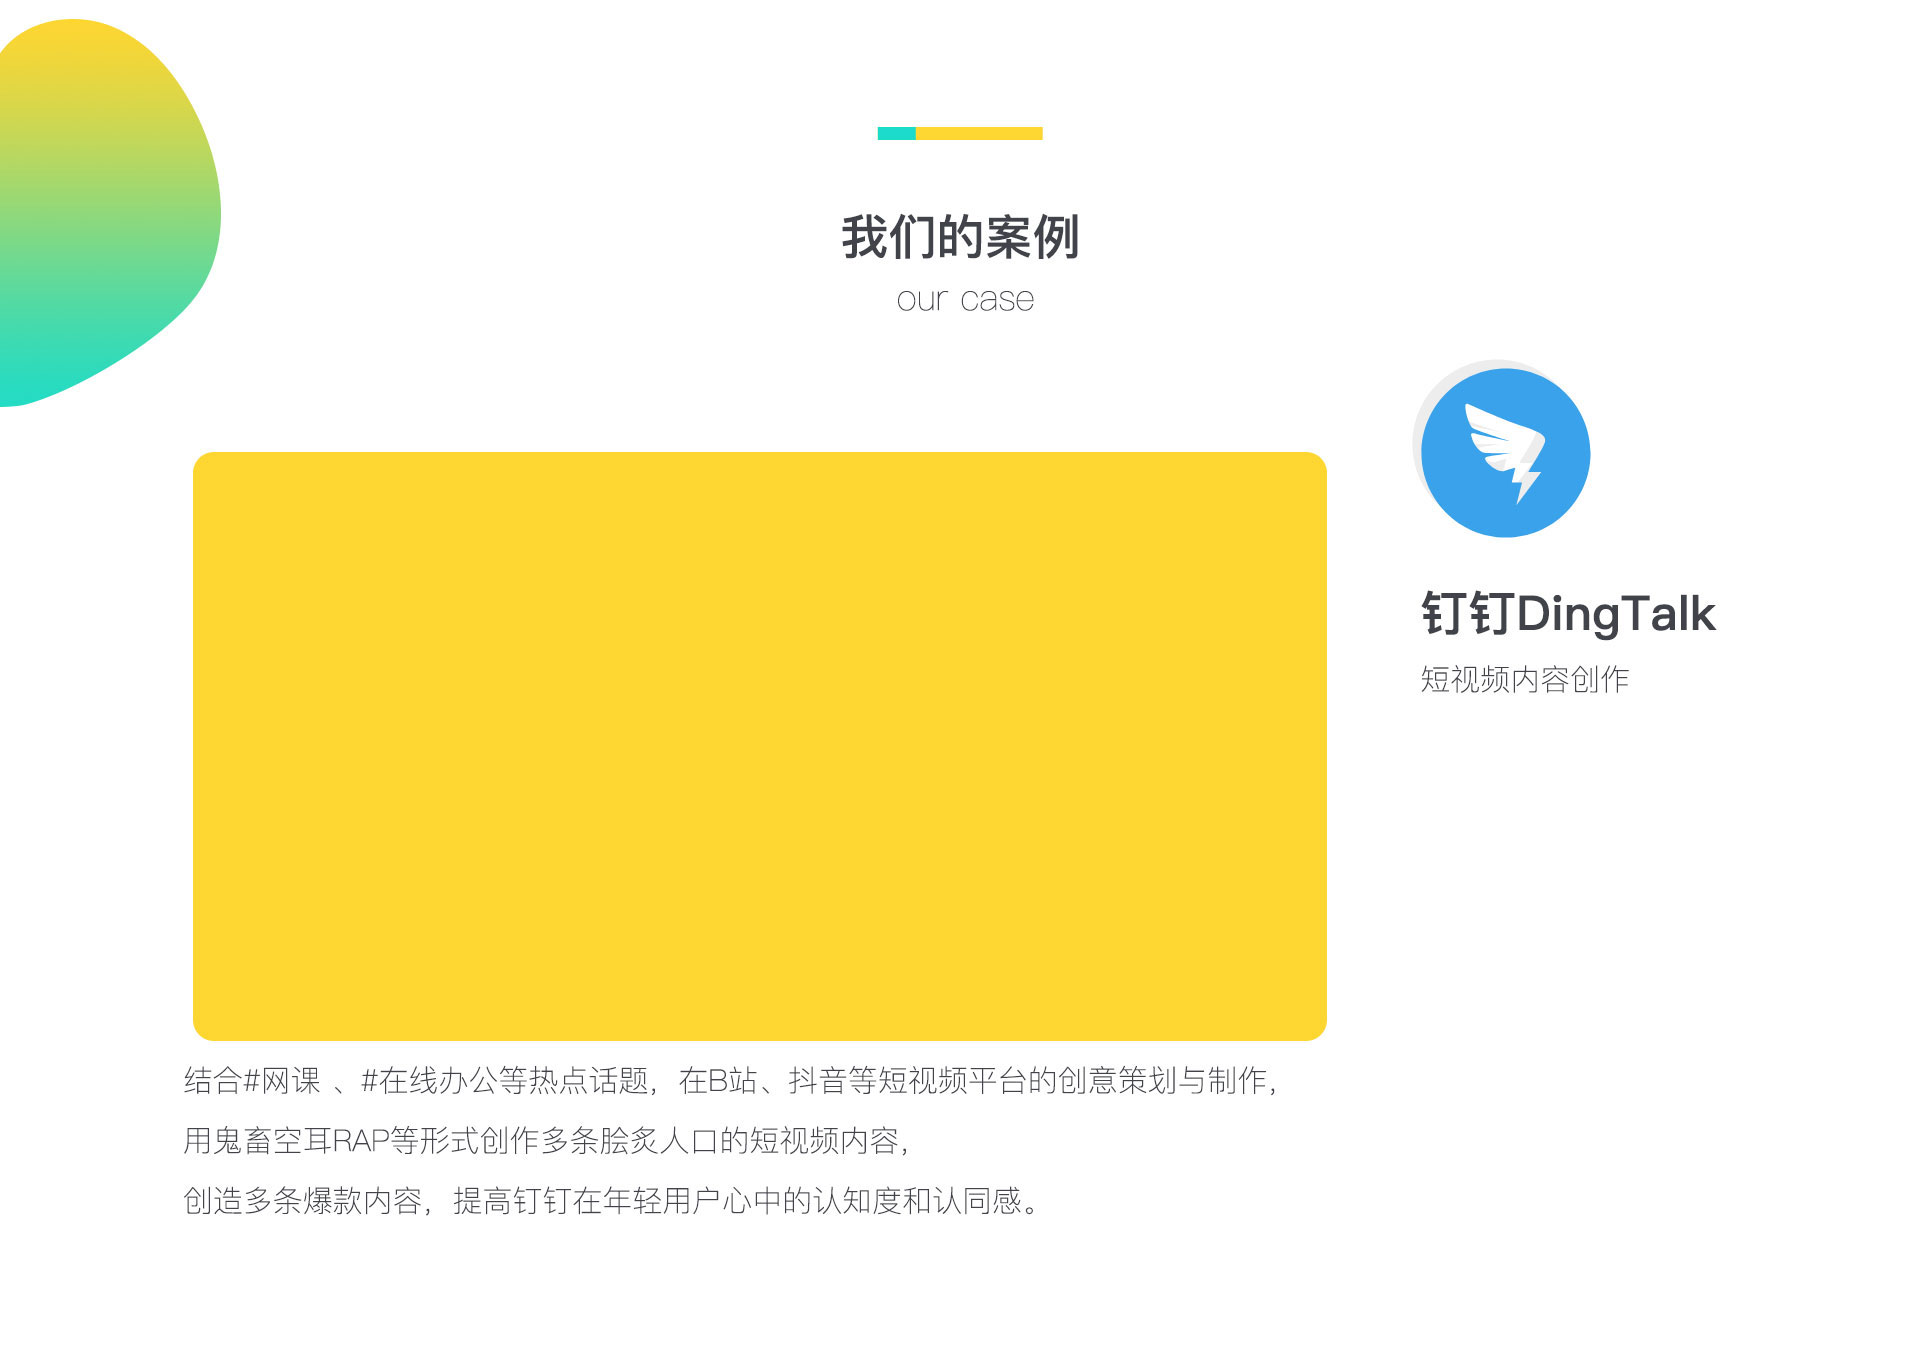
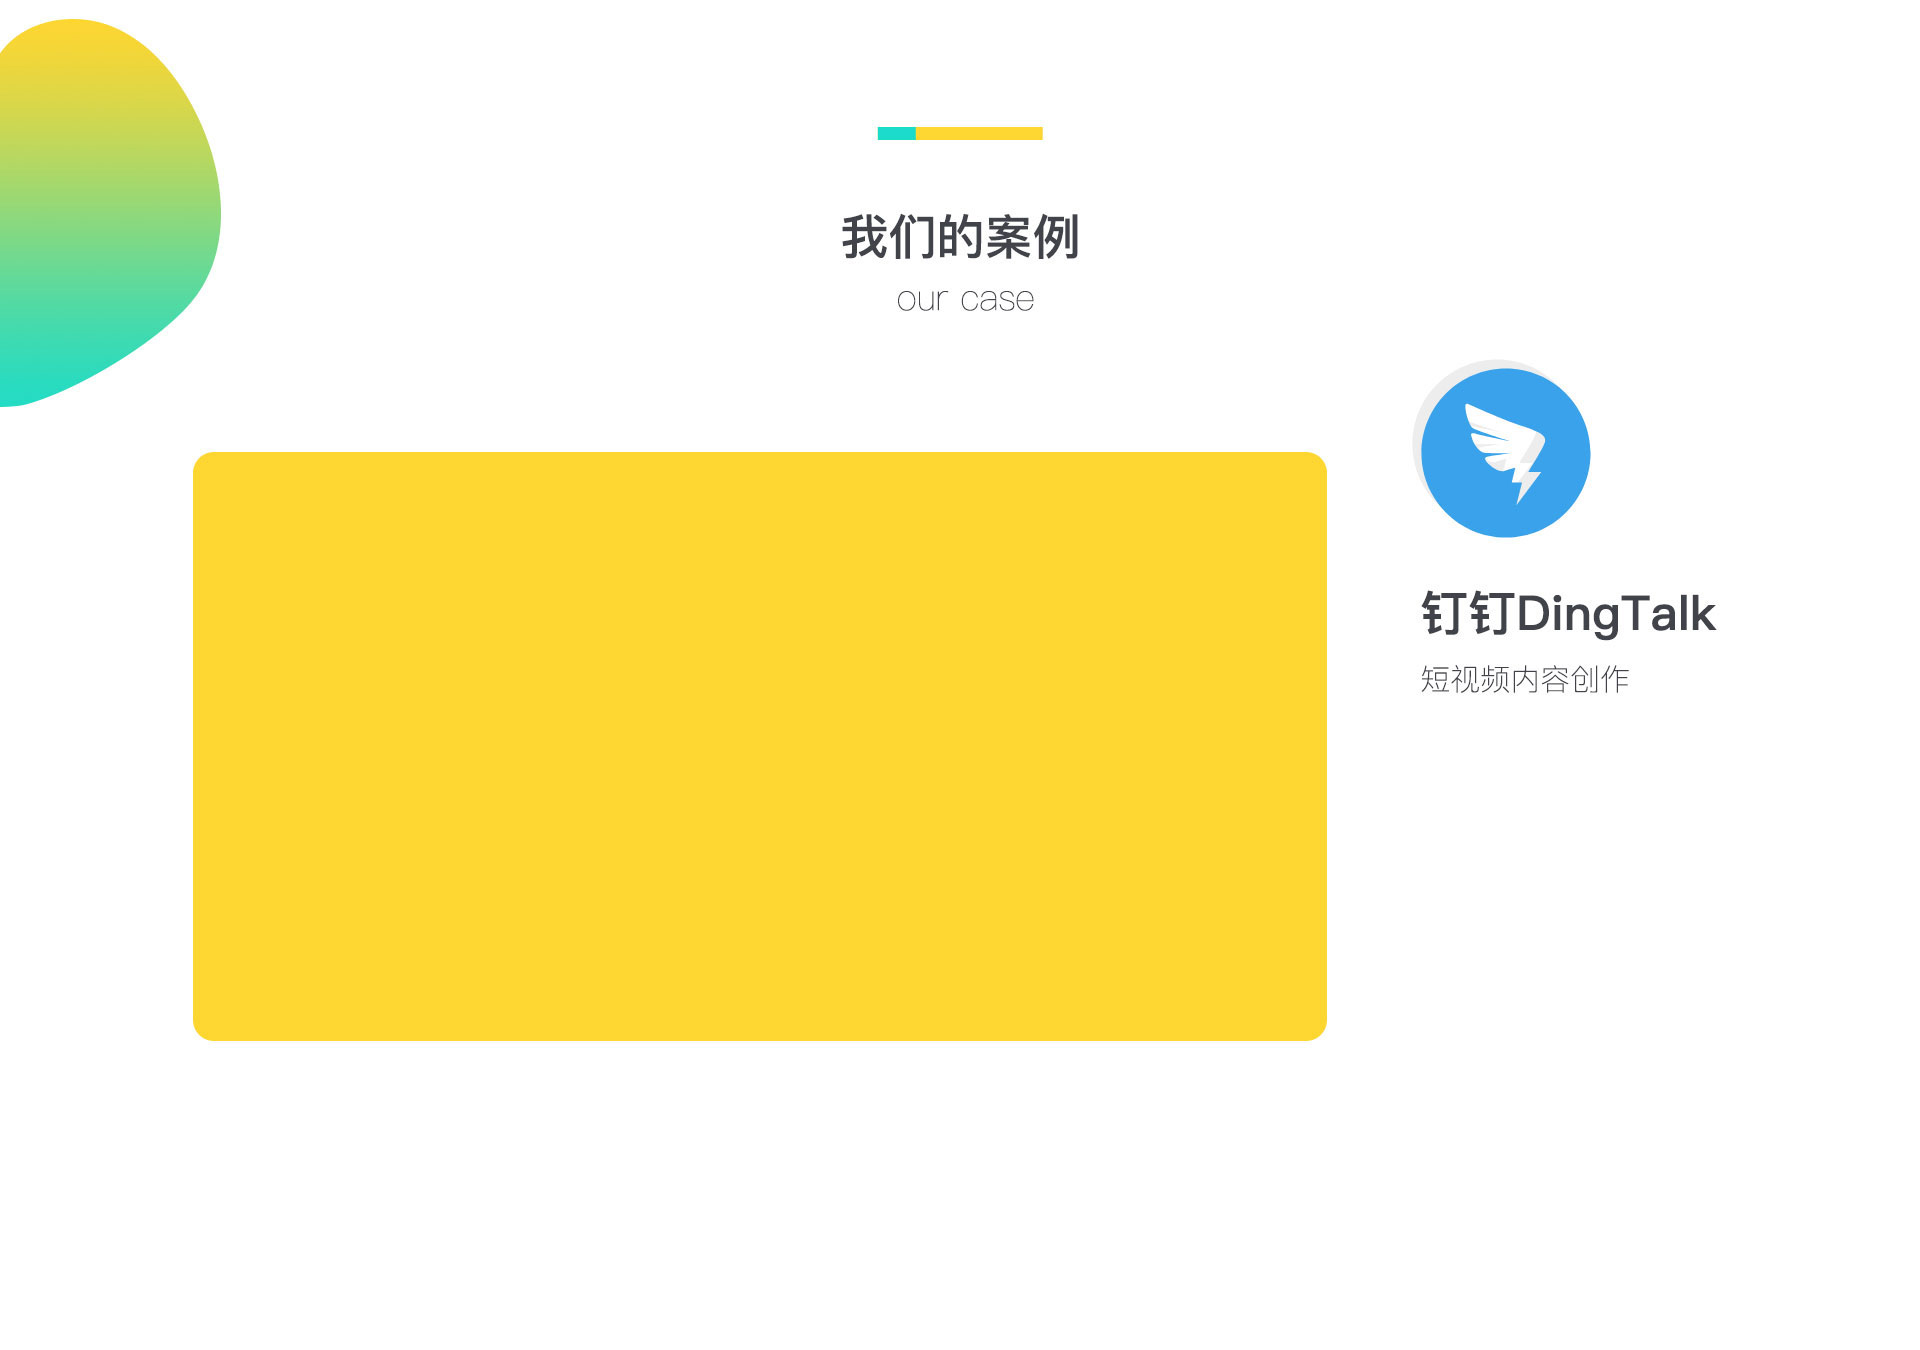
fff

Changed region(s): [[0.0938, 0.84, 0.5312, 0.9022], [0.1875, 0.7778, 0.6562, 0.8089], [0.0938, 0.7778, 0.1562, 0.8089]]

diff --git a/index.html b/index.html
@@ -8,16 +8,77 @@
     <link rel="stylesheet" href="./css/default.css">
     <link rel="stylesheet" href="./css/home.css">
     <style>
+         @media (min-width: 767px) and (max-width: 1600px) {
+            #ABOUT .aboutText{
+                -webkit-transform-origin-x: 0;
+                -webkit-transform-origin-y: 0;
+                -webkit-transform: scale(.8);
+            }
+            #ABOUT .aboutText p{
+                margin-bottom: 5%;
+            }
+            .case_01Text, .case_02Text ,.HiText p,.case_03Text,.case_03_2Text,.MctText{
+                -webkit-transform-origin-x: 0;
+                -webkit-transform-origin-y: 0;
+                -webkit-transform: scale(.8);
+            }
+            .case_04 p{
+                -webkit-transform: scale(.8);
+                display: flex;
+                justify-content: center;
+            }
+        }
        @media (min-width: 480px) and (max-width: 767px) {
-        .nav .nav_l{
-                display: none;
+            .nav .nav_l{
+                    display: none;
+                }
+            #ABOUT .aboutText{
+                -webkit-transform-origin-x: 0;
+                -webkit-transform-origin-y: 0;
+                -webkit-transform: scale(.5);
+                font-size: 9px !important;
+            }
+            .case_01Text, .case_02Text ,.HiText p,.case_03Text,.case_03_2Text,.MctText{
+                -webkit-transform-origin-x: 0;
+                -webkit-transform-origin-y: 0;
+                -webkit-transform: scale(.5);
+            }
+            .case_04 p{
+                -webkit-transform: scale(.5);
+                display: flex;
+                justify-content: center;
+                margin-top: 0;
             }
         }
         @media (max-width: 479px) {
             .nav .nav_l{
                 display: none;
             }
+            #ABOUT .aboutText{
+                -webkit-transform-origin-x: 0;
+                -webkit-transform-origin-y: 0;
+                -webkit-transform: scale(.5);
+                font-size: 9px;
+            }
+            .provideText{
+                -webkit-transform: scale(.5);
+                font-size: 9px;
+            }
+            .case_04 p{
+                -webkit-transform: scale(.5);
+                font-size: 9px;
+                display: flex;
+                justify-content: center;
+                margin-top: 0;
+            }
+        .case_01Text, .case_02Text,.HiText p,.case_03Text,.case_03_2Text,.MctText{
+                -webkit-transform-origin-x: 0;
+                -webkit-transform-origin-y: 0;
+                -webkit-transform: scale(.5);
+                font-size: 9px;
+            }
         }
+       
     </style>
 </head>
 <body>
@@ -39,31 +100,143 @@
        </div>
        <div class="content">
             <img id="HOME" src="./images/banner.jpg" alt="这是一个橱窗图片">
-            <img id="ABOUT" src="./images/about_us.jpg" alt="这是一个介绍我们信息的图片">
+            <div id="ABOUT">
+                <img  src="./images/about_us.jpg" alt="这是一个介绍勾勾互娱信息的图片">
+                <div class="aboutText">
+                    <p>勾勾互娱成立于2017年，团队位于广州和背景，</p>
+                    <p>我们是互联网生态内容供应商，深耕短视频领域,</p>
+                    <p>在抖音/B站/微博/小红书等平台，持续不断生产优质内容,</p>
+                    <p>通过内容传播为产品赋能，紧密连接消费者。</p>
+                </div>
+            </div>
+            <div class="provide">
+                <img src="./images/we_provide.jpg" alt="我们提供的帮助">
+                <div class="provideText">
+                    <p>我们专注于短视频领域的相关业务</p>
+                    <div>实现内容+营销+渠道内容闭环的传播模式</div>
+                </div>
+            </div>
+            
             <img id="CLIENT" src="./images/client.jpg" alt="这是我们的客户的信息图片">
             <div class="case_01" id="CASE">
                 <img src="./images/case_01.jpg" alt="这是一个钉钉案例">
                 <a target="_blank" href="https://www.bilibili.com/video/BV1Ep4y117RJ"><img class="dingding" src="./images/video_dingding-.png" alt="这是钉钉跳转视频"></a>
+                <div class="case_01Text">
+                    <p>结合#网课、#在线办公等热点话题，在B站、抖音等短视频平台的创意策划与制作,</p>
+                    <p>用鬼畜空耳RAP等形式创作多条脍炙人口的短视频内容,</p>
+                    <p>创造多条爆款内容，提高钉钉在年轻用户心中的认知度和认同感。</p>
+                </div>
             </div>
             <div class="case_02">
                 <img src="./images/case_02.jpg" alt="短视频内容创作">
                 <a target="_blank" href="https://www.bilibili.com/video/BV1V7411Z7AB"> <img class="alipay" src="./images/video_alipay.png" alt="短视频内容创作跳转"></a>
+                <div class="case_02Text">
+                    <p>结合#支付宝升级成数字化生活平台#支付宝L OGO变更蓝的支付宝相关事件</p>
+                    <p>在B站、微博平台的策划了一系列的营销内容，吸引年轻用户关注和讨论,</p>
+                    <p>更是打造支付宝+钉钉阿里全家桶内最强蓝蓝CP组合，传播项目成功出圈。</p>
+                </div>
             </div>
-            <img style="vertical-align:bottom;" src="./images/case_03.jpg" alt="新媒体矩阵运营">
+
+
+            <div class="case_03">
+                <img style="vertical-align:bottom;" src="./images/case_03_1.jpg" alt="阿里云">
+                <div class="case_03Text">
+                    <p>针对阿里云云服务、Al、大数据等业务属性，用通俗易懂的语言，</p>
+                    <p>在抖音。B站等短视频平台的创意策划与制作，创作多条爆款视频,</p>
+                    <p>协助阿里云团队提升在C端的影响力、认知并认可阿里云的品牌实力与技术。</p>
+                </div>
+            </div>
+            <div class="case_03">
+                <img style="vertical-align:bottom;" src="./images/case_03_2.png" alt="搜狗">
+                <div class="case_03_2Text">
+                    <p>负责搜狗品牌的新媒体矩阵运营，提高搜狗在Al领域认知度和认同感。夯实搜狗在搜索</p>
+                    <p>领域和Al硬件领域的行业地位。</p>
+                </div>
+            </div>
+            <div class="case_03">
+                <img style="vertical-align:bottom;" src="./images/case_03_3.png" alt="小红书">
+                <div class="case_03Text" style="top:75%">
+                    <p>协助雅思兰黛产品线完成宣发物料制作工作，完成了超过1000+物料设计延展,</p>
+                    <p>在抖音。B站等短视频平台的创意策划与制作，创作多条爆款视频,</p>
+                    <p>服务范畴广泛，无论是抖音视频还是开屏投放均可轻松“搞定”!</p>
+                </div>
+            </div>
+            <div class="case_03">
+                <img style="vertical-align:bottom;" src="./images/case_03_4.jpg" alt="明媚果汁">
+                <div class="case_03Text" style="left: 30%;top: 68%;">
+                    <p>协助明媚果汁品牌在公关.上发力，通过结合年轻人喜闻乐见的活动事件，将明媚果汁和</p>
+                    <p>阳光、年轻、活力等关键词进行绑定，强化用户和经销商的认知。</p>
+                </div>
+            </div>
+
+
             <div class="case_04">
                 <img target="_blank"  src="./images/case_04.jpg" alt="宣传片摄制">
-                    <a target="_blank" href="https://www.bilibili.com/video/BV1jJ411j7H8"> <img class="video_1" src="./images/video_1.png" alt="凯越酒店宣传视频"></a>
-                    <a target="_blank" href="https://www.bilibili.com/video/BV1Ht411d7AJ"> <img class="video_2" src="./images/video_2.png" alt="Al唇语识别大挑战"></a>
-                    <a target="_blank" href="https://www.bilibili.com/video/BV1tt411C7k3"> <img class="video_3" src="./images/video_3.png" alt="搜狗宣传视频"></a>
-                    <a target="_blank" href="https://www.bilibili.com/video/BV1tt411C7k9"> <img class="video_4" src="./images/video_4.png" alt="IPO纪录片"></a>
-                    <a target="_blank" href="https://www.bilibili.com/video/BV1tt411C7Ca"> <img class="video_5" src="./images/video_5.png" alt="采访-马剑越"></a>
-                    <a target="_blank" href="https://www.bilibili.com/video/BV1EJ411D7dr"> <img class="video_6" src="./images/video_6.png" alt="女主播采访"></a>
-                    <a target="_blank" href="https://www.bilibili.com/video/BV1V7411Z7AB"> <img class="video_7" src="./images/video_7.png" alt="YY宣传视频盛典互动"></a>
-                    <a target="_blank" href="https://www.bilibili.com/video/BV1bt411C7HL"> <img class="video_8" src="./images/video_8.png" alt="抖音宣传视频采访-张欣尧"></a>
+                    <a class="video_1" target="_blank" href="https://www.bilibili.com/video/BV1jJ411j7H8"> 
+                        <img  src="./images/video_1.png" alt="凯越酒店宣传视频">
+                        <p>凯越酒店宣传视频</p>
+                        <p>微信小程序宣传</p>
+                    </a>
+                    <a class="video_2" target="_blank" href="https://www.bilibili.com/video/BV1Ht411d7AJ"> 
+                        <img  src="./images/video_2.png" alt="Al唇语识别大挑战">
+                        <p>搜狗宣传视频</p>
+                        <p>AI唇语识别大挑战</p>
+                    </a>
+                    <a class="video_3" target="_blank" href="https://www.bilibili.com/video/BV1tt411C7k3">
+                         <img  src="./images/video_3.png" alt="搜狗宣传视频">
+                         <p>搜狗宣传视频</p>
+                        <p>搜狗宣传视频</p>
+                    </a>
+                    <a class="video_4" target="_blank" href="https://www.bilibili.com/video/BV1tt411C7k9"> 
+                        <img  src="./images/video_4.png" alt="IPO纪录片">
+                        <p>搜狗宣传视频</p>
+                        <p>IPO纪录片</p>
+                    </a>
+                    <a class="video_5" target="_blank" href="https://www.bilibili.com/video/BV1tt411C7Ca"> 
+                        <img  src="./images/video_5.png" alt="采访-马剑越">
+                        <p>YY采访视频</p>
+                        <p>采访-马剑越</p>
+                    </a>
+                    <a class="video_6" target="_blank" href="https://www.bilibili.com/video/BV1EJ411D7dr">
+                         <img  src="./images/video_6.png" alt="女主播采访">
+                         <p>YY宣传视频</p>
+                        <p>女主播采访</p>
+                    </a>
+                    <a class="video_7"  target="_blank" href="https://www.bilibili.com/video/BV1V7411Z7AB">
+                        <img src="./images/video_7.png" alt="YY宣传视频盛典互动">
+                        <p>YY宣传视频</p>
+                        <p>盛典互动</p>
+                    </a>
+                    <a class="video_8"  target="_blank" href="https://www.bilibili.com/video/BV1bt411C7HL">
+                        <img src="./images/video_8.png" alt="抖音宣传视频采访-张欣尧">
+                        <p>抖音宣传视频</p>
+                        <p>采访-张欣尧</p>
+                    </a>
                 <!-- <img class="alipay" src="./images/video_alipay.png" alt=""> -->
             </div>
-            <img id="MCN" src="./images/mcn.jpg" alt="MCN矩阵">
-            <img id="HI" src="./images/contact.jpg" alt="商务合作">
+            <div  id="MCN">
+                <img src="./images/mcn_01.jpg" alt="MCN矩阵">
+                <div class="MctText">
+                    <p>GOGOL IKE是我们独立孵化的本地化内容MCN,迄今为止,</p>
+                    <p>已拥有超过，上千名小红书、抖音等合作红人。希望通过此形式</p>
+                    <p>让红人获得和品牌方联动合作的机会;并通过优质内容已经</p>
+                    <p>获得大麦网、喜茶、星巴克、大众点评等企业的认可。</p>
+                </div>
+            </div>
+            <div style="position: relative;">
+                <img src="./images/mcn_02.jpg" alt="万中无二音乐">
+                <div class="MctText" style="left: 47%;top: 24%;">
+                    <p>万中无二音乐是抖音颇具影响力的音乐厂牌与MCN机构之一</p>
+                    <p>通过专业的原创制作搭配全新短视频内容，创造音乐宣推新模式。</p>
+                </div>
+            </div>
+           <div id="HI">
+                <img src="./images/contact.jpg" alt="联系方式">
+                <div class="HiText">
+                    <p>邮件地址: hello@gooood.tv</p>
+                    <p>或来撩勾勾负责人微信: benhwang1217</p>
+                </div>
+           </div>
        </div>
        <a class="headTop" id="backTop"  href="#head">
             <img src="./images/top.png" alt="返回顶部">

diff --git a/css/home.css b/css/home.css
@@ -26,11 +26,15 @@
      margin-left: 55px;
      color: #48402c;
 }
+.content{
+    font-family: monospace;
+}
 .content img{
     width: 100%;
     height: 100%;
+    vertical-align: bottom;
 }
-.case_01,.case_02,.case_04{
+.case_01,.case_02,.case_03,.case_04{
     position: relative;
 }
 .case_01 .dingding{
@@ -51,6 +55,13 @@
     height: 12%;
     width: 17%;
     position: absolute;
+    text-align: center;
+    font-size: 1.8rem;
+    white-space: nowrap;
+}
+.case_04 p{
+    margin-top: 6%;
+    width: 100%;
 }
 .case_04 .video_1{
     top: 19%;
@@ -88,4 +99,98 @@
     position: fixed;
     bottom: 10%;
     right: 5%;
+}
+
+#ABOUT,#HI,#MCN{
+    position: relative;
+}
+#ABOUT .aboutText{
+    position: absolute;
+    top: 40%;
+    left: 52%;
+    /* width: 100%; */
+    -webkit-transform-origin-x: 0;
+    -webkit-transform-origin-y: 0;
+    -webkit-transform: scale(1);
+    font-size: 1.8rem;
+    white-space: nowrap;
+}
+#ABOUT .aboutText p{
+    margin-bottom: 7%;
+}
+.provide{
+    font-size: 1.8rem;
+    position: relative;
+}
+.provideText{
+    position: absolute;
+    width: 100%; 
+    bottom: 5%;
+    text-align: center;
+}
+.provideText>p{
+    margin-bottom: 2%;
+}
+.case_01Text{
+    position: absolute;
+    left: 10%;
+    top:79%;
+    font-size: 1.8rem;
+}
+.case_01Text p{
+    margin-bottom: 2%;
+    white-space: nowrap;
+
+}
+.case_02Text{
+    position: absolute;
+    left: 30.5%;
+    top:73%;
+    font-size: 1.8rem;
+}
+.case_02Text p{
+    margin-bottom: 2%;
+    white-space: nowrap;
+}
+.case_03Text{
+    position: absolute;
+    left: 8.5%;
+    top: 73%;
+    font-size: 1.8rem;
+}
+.case_03Text p{
+    margin-bottom: 2%;
+    white-space: nowrap;
+}
+
+.case_03_2Text{
+    position: absolute;
+    left: 26.5%;
+    top: 78%;
+    font-size: 1.8rem;
+}
+.case_03_2Text p{
+    margin-bottom: 2%;
+    white-space: nowrap;
+}
+.HiText{
+    position: absolute;
+    left: 28.2%;
+    top: 40%;
+    font-size: 1.8rem;
+}
+.HiText p{
+    white-space: nowrap;
+    margin-bottom: 2%;
+}
+
+.MctText{
+    position: absolute;
+    left: 8.3%;
+    top: 46%;
+    font-size: 1.8rem;
+}
+.MctText p{
+    white-space: nowrap;
+    margin-bottom: 3%;
 }

diff --git a/css/default.css b/css/default.css
@@ -30,6 +30,7 @@ body {
   text-rendering: optimizeLegibility;
   font-family: Helvetica Neue, Helvetica, PingFang SC, Hiragino Sans GB, Microsoft YaHei, Arial, sans-serif;
   background:#ffffff;
+  color: #5c5c5e;
 }
 
 label {
